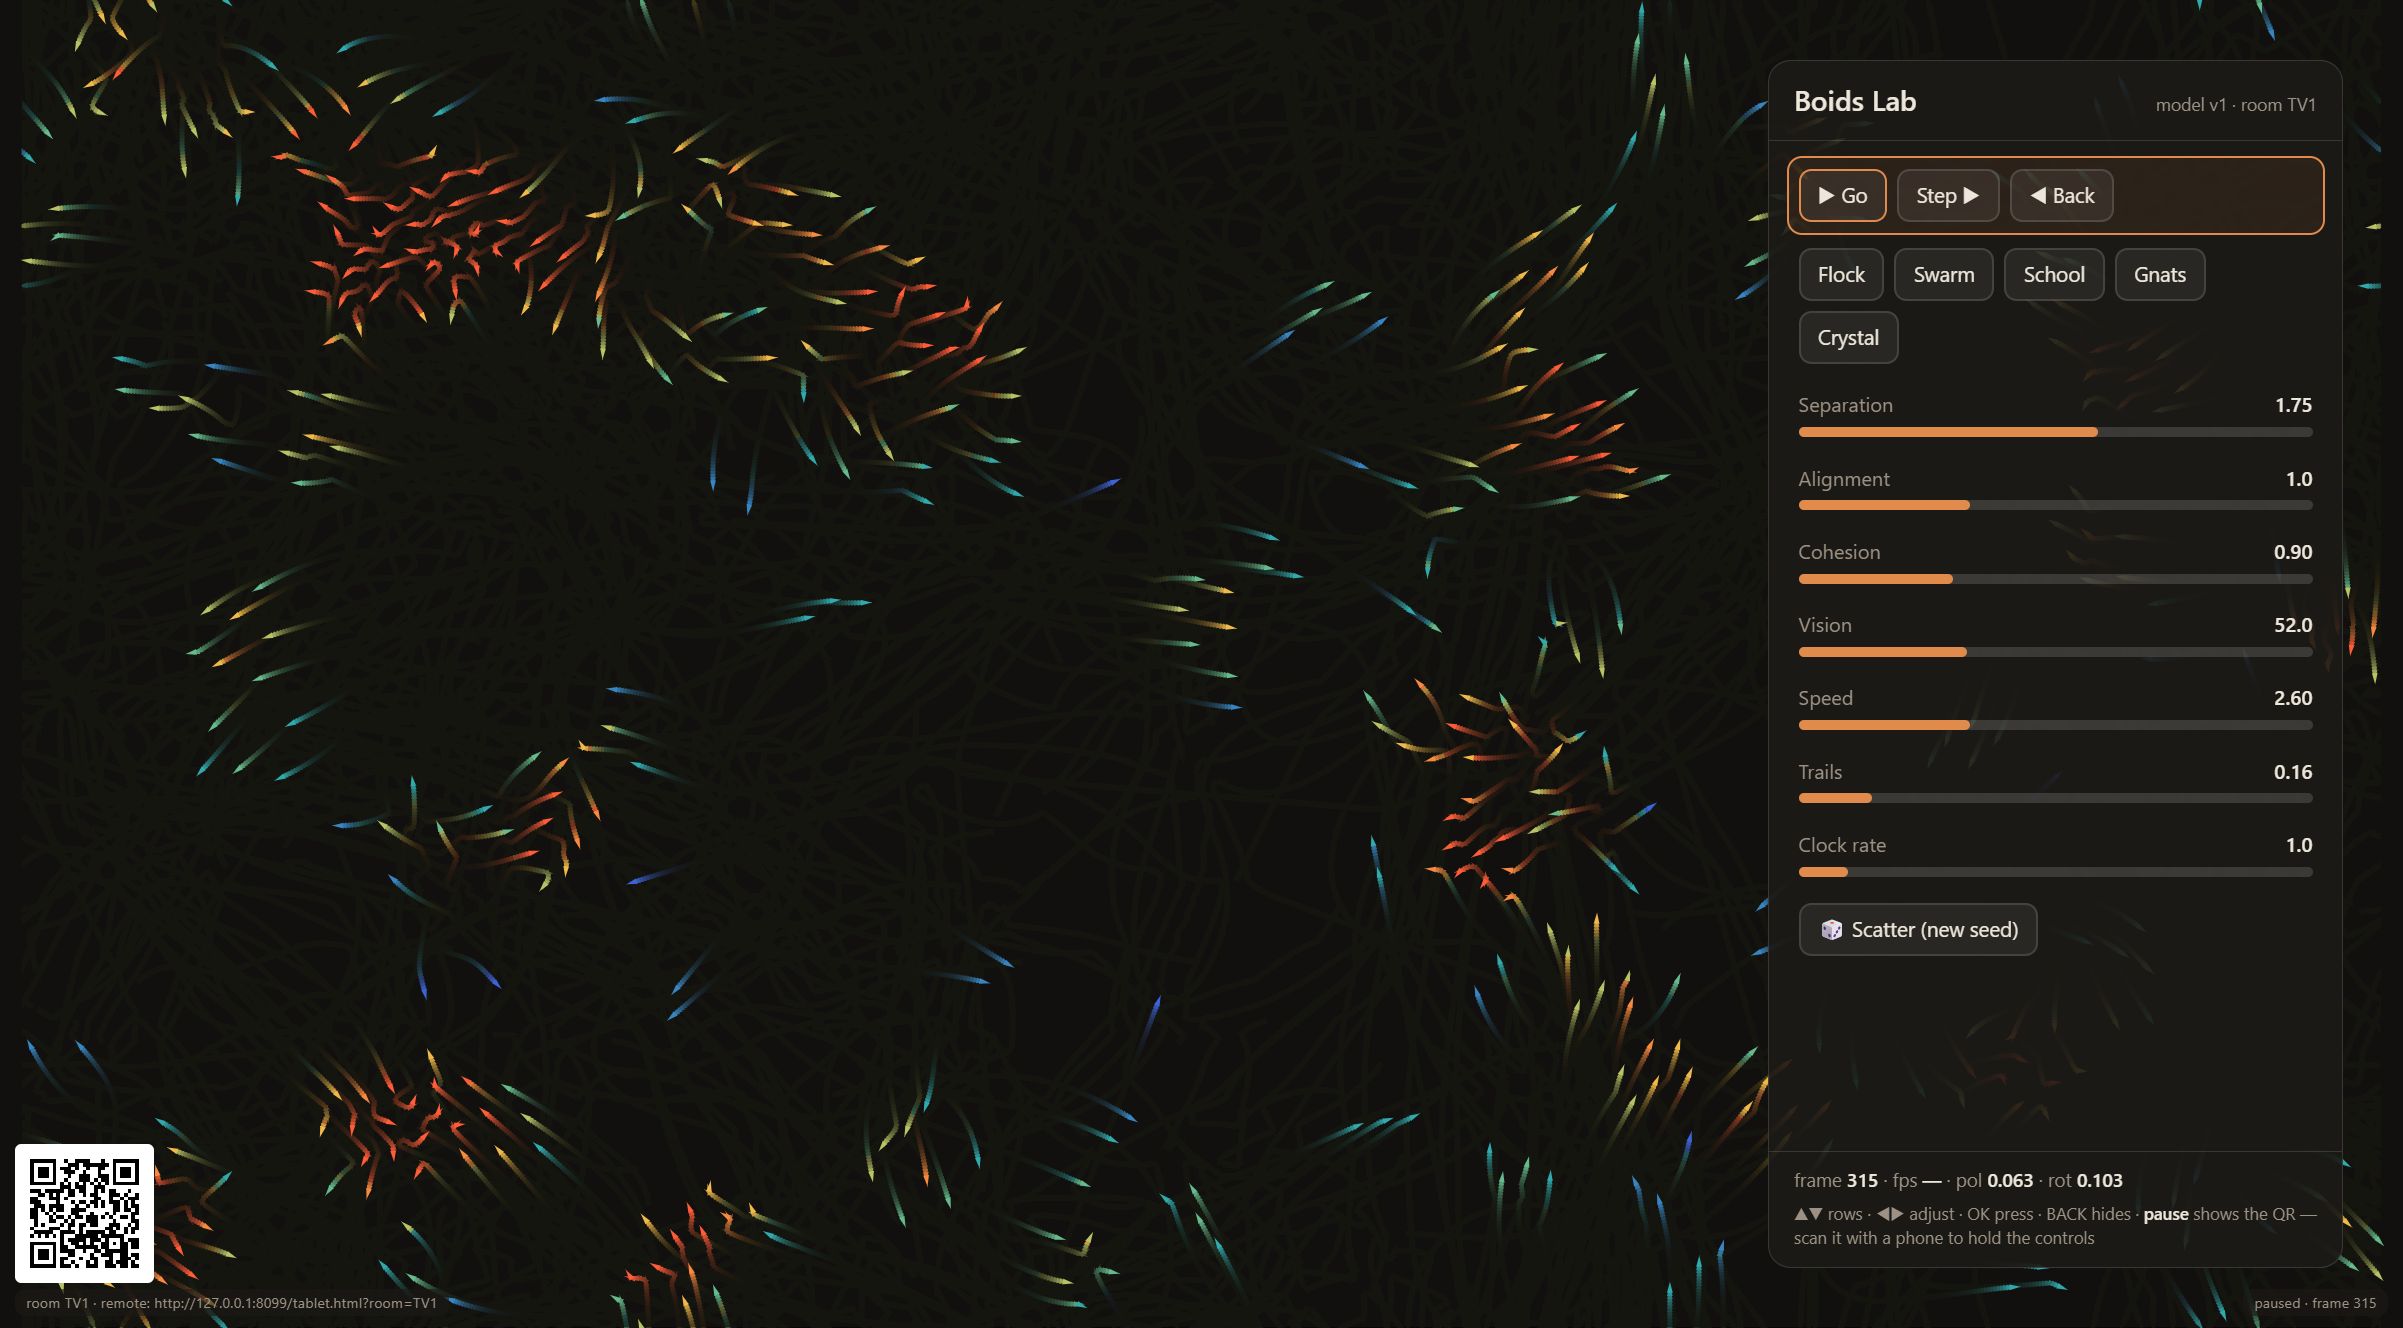
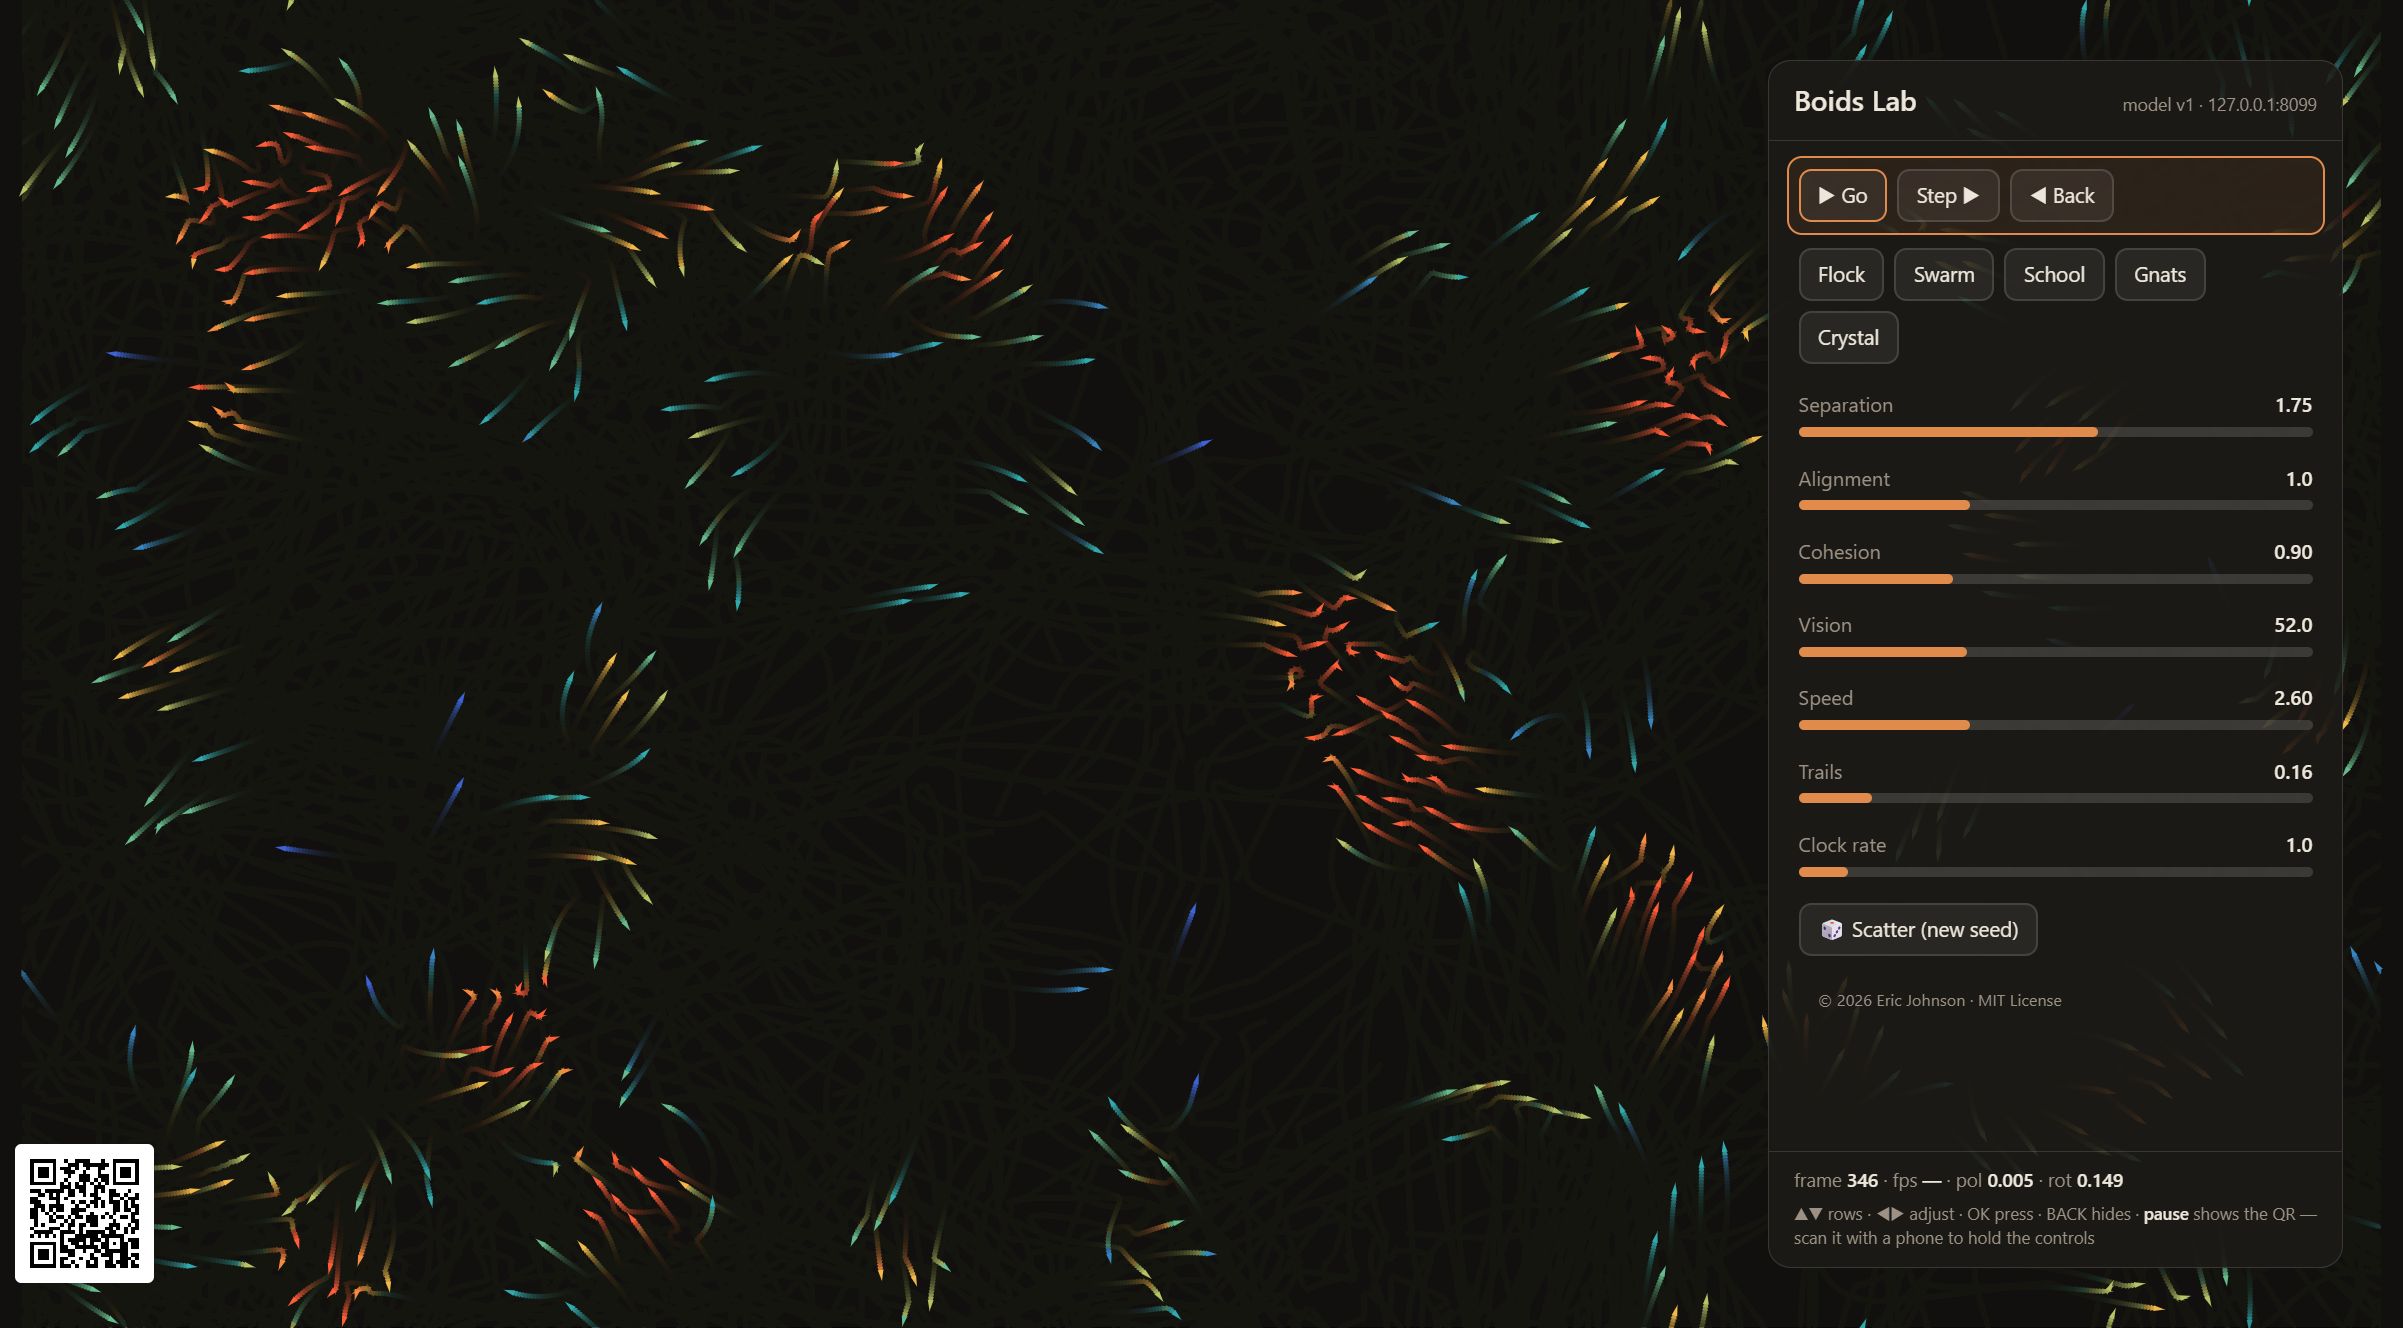
Quiet the TV view; version+address header; MIT license dialog (v1.1)
The panel is becoming the primary control, so the TV frame gets cleaner:

- tv.html hides the model's corner text (room/URL, pause status) inside
  the iframe — the QR stays; the panel carries the information now
- panel header shows just the app version and the address phones use
  (TvActivity passes its versionName as ?v=)
- a quiet © 2026 Eric Johnson row at the panel's bottom, reachable by
  D-pad, opens the MIT license in a dialog with an OK button; BACK and
  the idle timer respect the open dialog
- both apps bump to 1.1 (versionCode 2); installed and verified on the
  Google TV Streamer, screenshots refreshed, ALL PASS x3

Claude-Session: https://claude.ai/code/session_012XtiM9BvEGvZP93ueJaAzk

diff --git a/tv_app/web/tv.html b/tv_app/web/tv.html
@@ -47,6 +47,24 @@ body{font:19px/1.4 ui-sans-serif,-apple-system,"Segoe UI",Roboto,Helvetica,Arial
 }
 .btns button.sel{border-color:var(--accent)}
 .btns button.on{background:var(--accent);border-color:var(--accent);color:#1A1207;font-weight:500}
+
+/* the copyright line: a quiet row, still reachable with the D-pad */
+.row.copy{padding-top:4px;padding-bottom:4px}
+.row.copy .btns button{font-size:13px;color:var(--dim);background:none;border-color:transparent}
+.row.copy .btns button.sel{border-color:var(--accent);color:var(--fg)}
+
+/* the license dialog */
+#lic{position:fixed;inset:0;z-index:20;background:rgba(0,0,0,.62);
+  display:flex;align-items:center;justify-content:center}
+#lic.hid{display:none}
+#licBox{width:680px;max-width:86vw;background:var(--panel);border:1px solid var(--line);
+  border-radius:18px;padding:26px 30px 22px}
+#licBox h2{font-size:21px;margin:0 0 4px;font-weight:600}
+#licBox .cr{font-size:16px;color:var(--fg);margin:0 0 12px}
+#licBox p{font-size:14px;line-height:1.5;color:var(--dim);margin:0 0 10px}
+#licOk{display:block;margin:16px auto 0;font:inherit;font-size:17px;padding:9px 46px;
+  border-radius:10px;background:var(--accent);border:2px solid var(--accent);
+  color:#1A1207;font-weight:500;cursor:pointer}
 </style>
 </head>
 <body>
@@ -60,6 +78,29 @@ body{font:19px/1.4 ui-sans-serif,-apple-system,"Segoe UI",Roboto,Helvetica,Arial
     <div id="stats">—</div>
     <div class="hint" id="hint">▲▼ rows · ◀▶ adjust · OK press · BACK hides ·
       <b>pause</b> shows the QR — scan it with a phone to hold the controls</div>
+  </div>
+</div>
+
+<div id="lic" class="hid">
+  <div id="licBox">
+    <h2>MIT License</h2>
+    <p class="cr">Copyright © 2026 Eric Johnson</p>
+    <p>Permission is hereby granted, free of charge, to any person obtaining a copy
+    of this software and associated documentation files (the “Software”), to deal
+    in the Software without restriction, including without limitation the rights
+    to use, copy, modify, merge, publish, distribute, sublicense, and/or sell
+    copies of the Software, and to permit persons to whom the Software is
+    furnished to do so, subject to the following conditions:</p>
+    <p>The above copyright notice and this permission notice shall be included in
+    all copies or substantial portions of the Software.</p>
+    <p>THE SOFTWARE IS PROVIDED “AS IS”, WITHOUT WARRANTY OF ANY KIND, EXPRESS OR
+    IMPLIED, INCLUDING BUT NOT LIMITED TO THE WARRANTIES OF MERCHANTABILITY,
+    FITNESS FOR A PARTICULAR PURPOSE AND NONINFRINGEMENT. IN NO EVENT SHALL THE
+    AUTHORS OR COPYRIGHT HOLDERS BE LIABLE FOR ANY CLAIM, DAMAGES OR OTHER
+    LIABILITY, WHETHER IN AN ACTION OF CONTRACT, TORT OR OTHERWISE, ARISING FROM,
+    OUT OF OR IN CONNECTION WITH THE SOFTWARE OR THE USE OR OTHER DEALINGS IN THE
+    SOFTWARE.</p>
+    <button id="licOk">OK</button>
   </div>
 </div>
 
@@ -80,6 +121,7 @@ function q(name){
 }
 var MODE = q('panel') === 'lite' ? 'lite' : 'full';
 var room = q('room'), pair = q('pair'), autorun = q('autorun') !== null;
+var APPV = q('v');   // the activity passes its APK version
 $('title').textContent = MODE === 'lite' ? 'TV Boids' : 'Boids Lab';
 document.title = $('title').textContent;
 
@@ -88,6 +130,18 @@ if (room !== null) src += 'room=' + room + '&';
 if (pair) src += 'pair=' + pair + '&';
 if (autorun) src += 'autorun&';
 $('model').src = src.replace(/[?&]$/, '');
+
+// the TV wrapper owns the TV's presentation: the model's own corner text
+// (room/URL, pause status) is the panel's job here, so quiet it. The QR
+// stays — that's still the pairing story.
+$('model').addEventListener('load', function(){
+  try {
+    var d = this.contentDocument;
+    var st = d.createElement('style');
+    st.textContent = '#room,#status{display:none!important}';
+    d.head.appendChild(st);
+  } catch(e){}
+});
 
 // ---- transport: the model lives in the iframe, one BroadcastChannel away ----
 var chan = new BroadcastChannel('boids-lab');
@@ -126,6 +180,9 @@ function buildRows(presets){
     rows.push(sliderRow('cnt', {setup:true}));   // flock size restarts, like the toy
     rows.push(sliderRow('fade'));
   }
+  rows.push({kind:'buttons', cls:'copy', items:[
+    {id:'lic', label:'© 2026 Eric Johnson · MIT License', fn:openLic}
+  ]});
   render();
 }
 function presetRow(presets){
@@ -149,7 +206,7 @@ function scatter(){
 function render(){
   var host = $('rows'); host.innerHTML = '';
   rows.forEach(function(r, i){
-    var el = document.createElement('div'); el.className = 'row';
+    var el = document.createElement('div'); el.className = 'row' + (r.cls ? ' ' + r.cls : '');
     if (r.kind === 'slider'){
       var s = spec[r.key];
       el.innerHTML = '<div class="lbl"><span>' + s.label + '</span><b></b></div>' +
@@ -206,15 +263,23 @@ function paintCols(){
 // keyboards (desktop testing) arrive through keydown below.
 var visible = false, idleTimer = null;
 function show(){ visible = true; $('panel').classList.remove('hid'); tellBridge(); idle(); }
-function hide(){ visible = false; $('panel').classList.add('hid'); tellBridge();
+function hide(){
+  if (licOpen) return;   // never hide the panel out from under the license dialog
+  visible = false; $('panel').classList.add('hid'); tellBridge();
   if (idleTimer){ clearTimeout(idleTimer); idleTimer = null; } }
-function tellBridge(){ try { if (window.TVBridge) TVBridge.panelState(visible); } catch(e){} }
+function tellBridge(){ try { if (window.TVBridge) TVBridge.panelState(visible || licOpen); } catch(e){} }
 function idle(){
   if (idleTimer) clearTimeout(idleTimer);
   idleTimer = setTimeout(hide, 20000);
 }
 
+var licOpen = false;
+function openLic(){ licOpen = true; $('lic').classList.remove('hid'); tellBridge(); }
+function closeLic(){ licOpen = false; $('lic').classList.add('hid'); tellBridge(); idle(); }
+$('licOk').addEventListener('click', closeLic);
+
 function key(name){
+  if (licOpen){ if (name === 'Enter' || name === 'Back' || name === 'Menu') closeLic(); return; }
   if (name === 'PlayPause'){ togglePause(); return; }   // works with the panel away
   if (!visible){ if (name !== 'Back') show(); return; }
   if (name === 'Back' || name === 'Menu'){ hide(); return; }
@@ -278,7 +343,8 @@ function dispatch(m){
   if (m.t === 'describe'){
     spec = m.spec; values = m.values; running = m.clock.running; frameNow = m.clock.frame;
     buildRows(m.presets);
-    $('sub').textContent = 'model v' + m.version.model + (room ? ' · room ' + room : '');
+    $('sub').textContent = (APPV ? 'v' + APPV : 'model v' + m.version.model) +
+                           ' · ' + location.host;
     connected = true;
   }
   else if (!spec) return;

diff --git a/tv_app/shared/src/org/boidslab/tv/TvActivity.java b/tv_app/shared/src/org/boidslab/tv/TvActivity.java
@@ -71,6 +71,10 @@ public abstract class TvActivity extends Activity {
         setContentView(web);
 
         final int boundPort = port;
+        String v = "";
+        try { v = getPackageManager().getPackageInfo(getPackageName(), 0).versionName; }
+        catch (Exception ignored) {}
+        final String version = v;
         // the TV is usually already on the network; give a fresh boot a few
         // seconds to get an address before falling back to loopback
         new Thread(() -> {
@@ -81,7 +85,8 @@ public abstract class TvActivity extends Activity {
             runOnUiThread(() -> {
                 if (boundPort < 0 || web == null) return;
                 web.loadUrl("http://" + host + ":" + boundPort + "/" + startPage() +
-                            "&room=" + room + "&pair=" + pairPage() + "&autorun");
+                            "&room=" + room + "&pair=" + pairPage() +
+                            "&v=" + version + "&autorun");
             });
         }, "find-lan-ip").start();
     }

diff --git a/tv_app/README.md b/tv_app/README.md
@@ -64,8 +64,10 @@ the highlighted Pause button) and a **QR code appears bottom-left** — that's
 the pairing story, same as the rest of this repo. Scan it and your phone is
 holding the controls: the full instrument for Boids Lab, the lite remote for
 TV Boids. Or just browse to `http://<tv-ip>:8014/` from anything on your
-network — the TV serves the remote itself, already paired. The room code is
-minted once per install, so a bookmark keeps working across restarts.
+network — the TV serves the remote itself, already paired (the panel's
+header shows the exact address). The room code is minted once per install,
+so a bookmark keeps working across restarts. The panel's © line opens the
+MIT license.
 
 Phones follow the TV and the TV panel follows phones — the model is the
 single source of truth, so every screen always agrees.
